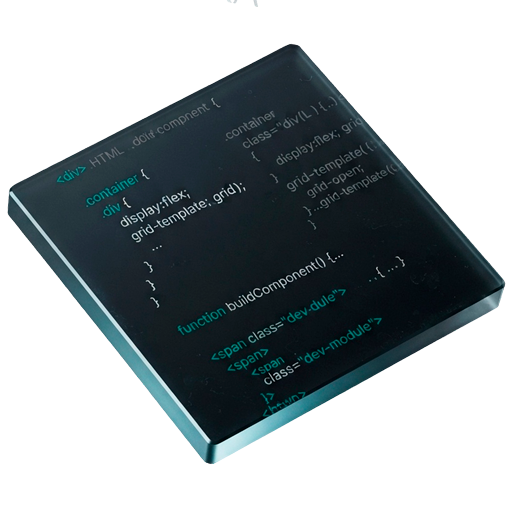
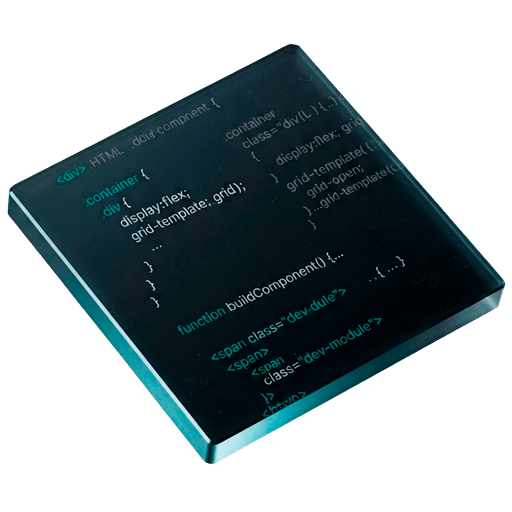
Refresh V3 process section and styles

diff --git a/webApp/src/components/v3/V3Sections.stories.tsx b/webApp/src/components/v3/V3Sections.stories.tsx
@@ -83,9 +83,9 @@ function CapabilitiesSection() {
         <div className="v3-shell">
           <div className="v3-capabilities__grid">
             <div className="v3-capabilities__intro">
-              <p className="v3-kicker">Три направления, единый результат</p>
-              <h2 id="storybook-v3-capabilities-title">Сайт работает как единое целое</h2>
-              <p>Не нужно координировать отдельных дизайнеров, разработчиков и SEO-специалистов.</p>
+              <p className="v3-kicker">Космически-фундаментальная разработка</p>
+              <h2 id="storybook-v3-capabilities-title">Дизайн, функциональность и SEO работают как одна система</h2>
+              <p>Проектирую структуру и визуальную систему, разрабатываю удобный интерфейс и адаптирую сайт под поисковики. План работ фиксируем заранее — вы понимаете, что входит в проект и кто за это отвечает.</p>
             </div>
             <div className="v3-capabilities__stage">
               <div className="v3-capabilities__rocks" aria-hidden="true">

diff --git a/webApp/src/styles/v3.css b/webApp/src/styles/v3.css
@@ -494,8 +494,8 @@ html[data-design="cinematic"] {
 .v3-motion-cinematic .v3-capabilities__intro { opacity: 0; visibility: hidden; }
 .v3-capabilities__intro > .v3-kicker { margin-bottom: 1rem; }
 .v3-capabilities__intro h2 {
-  max-width: 10ch;
-  font: 400 clamp(3rem, 5vw, 5.5rem)/0.96 "Serati", "Oswald Variable", Impact, sans-serif;
+  max-width: 15ch;
+  font: 400 clamp(3rem, 5vw, 4rem) / 0.96 "Serati", "Oswald Variable", Impact, sans-serif;
   color: transparent;
   -webkit-text-stroke: 1.5px rgb(240 243 238 / 88%);
 }
